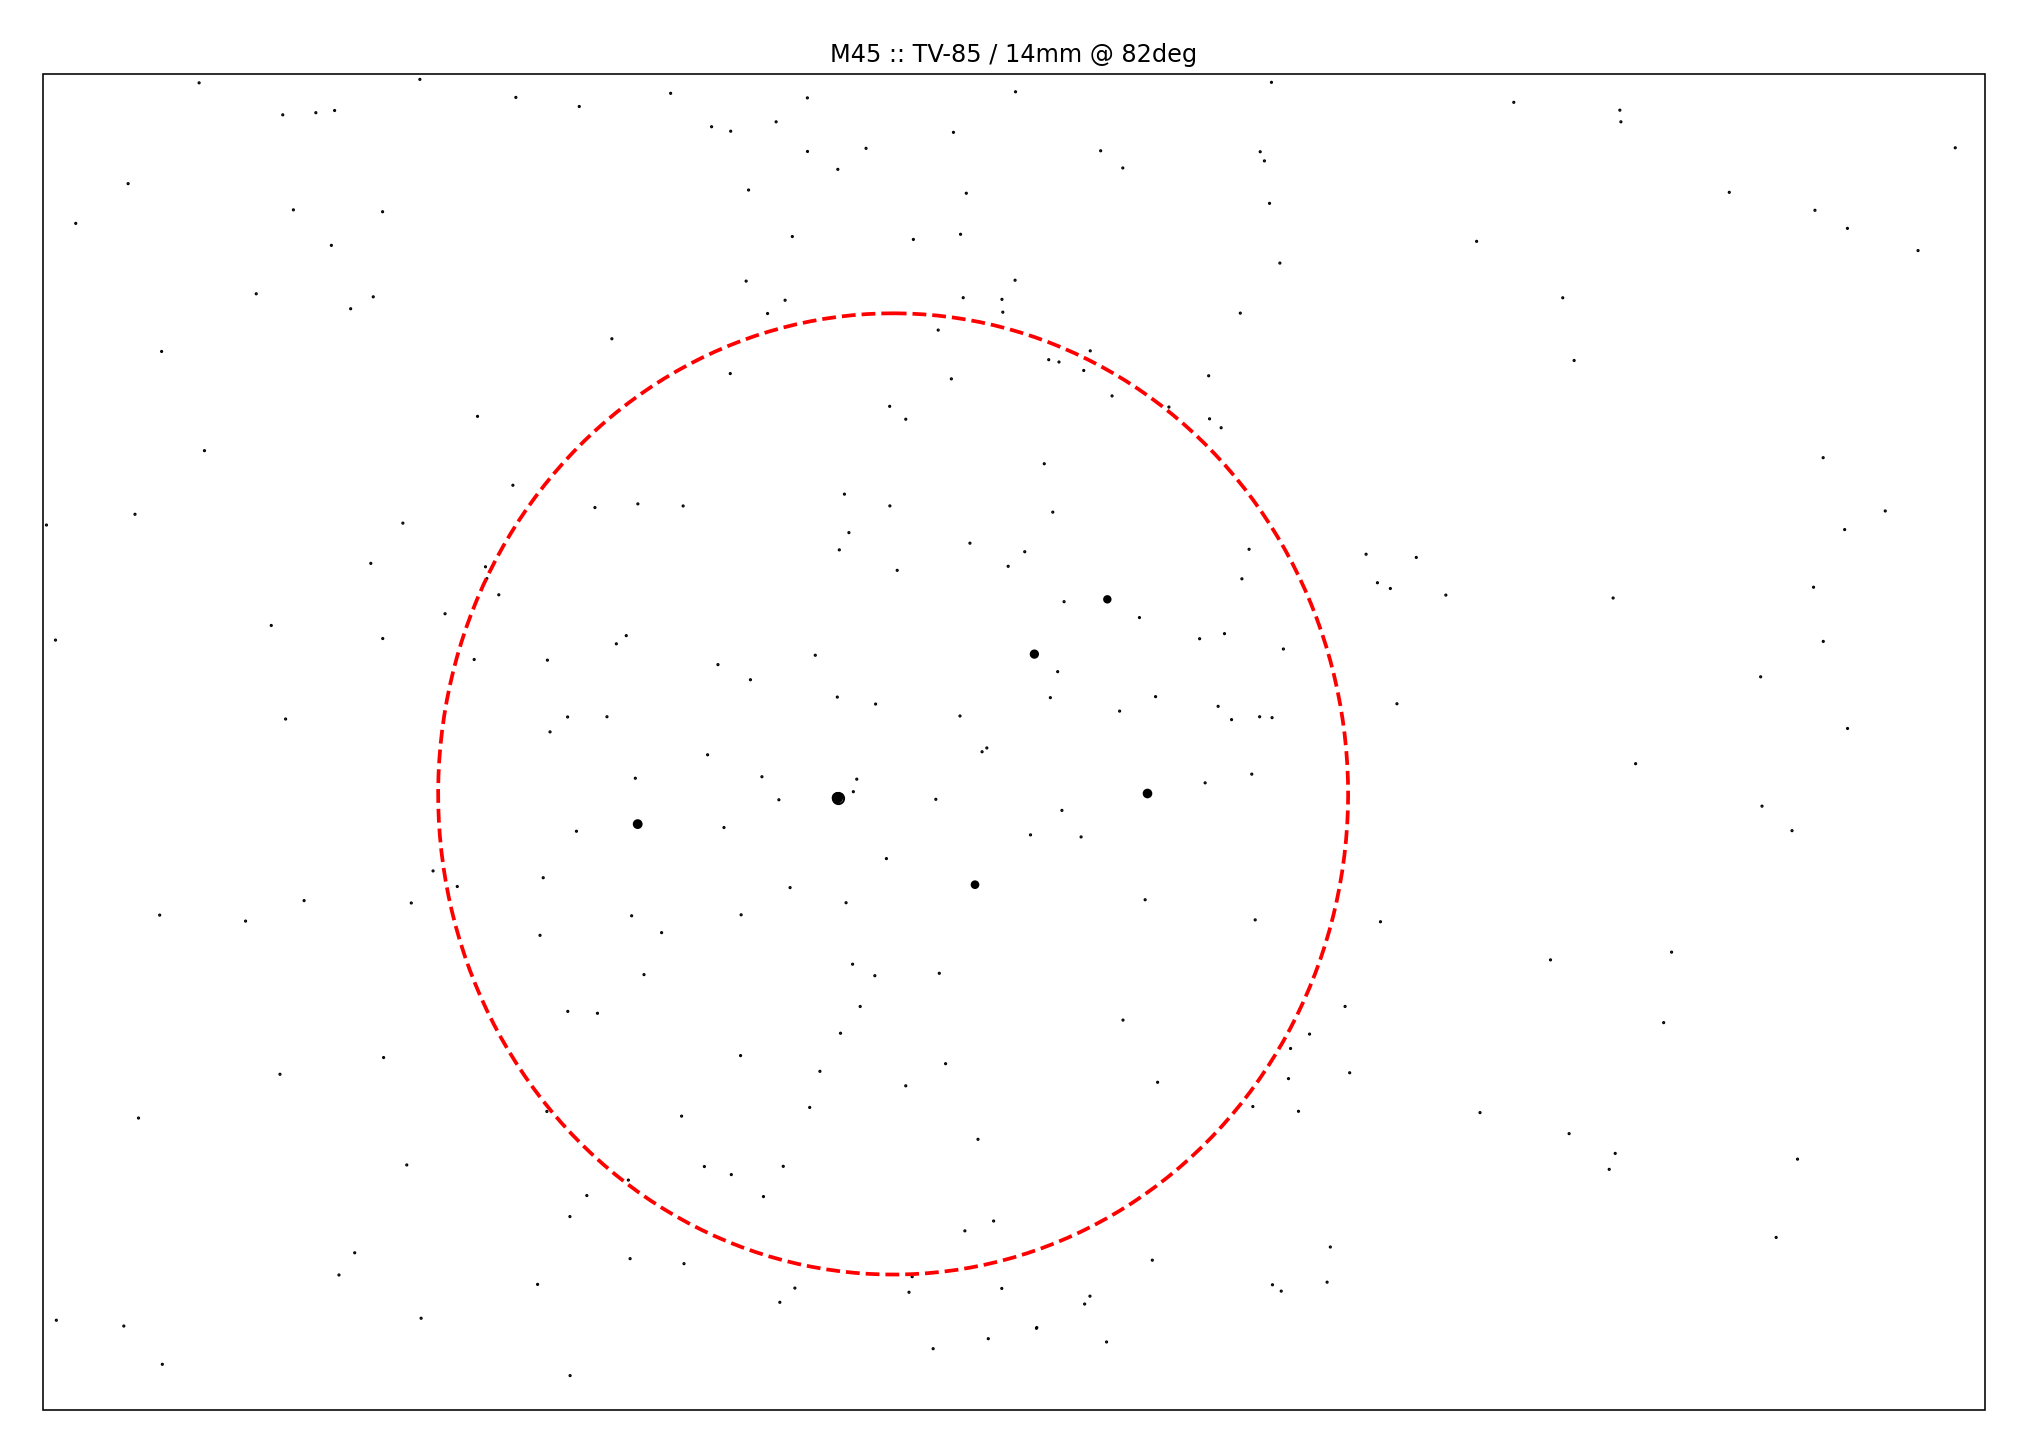
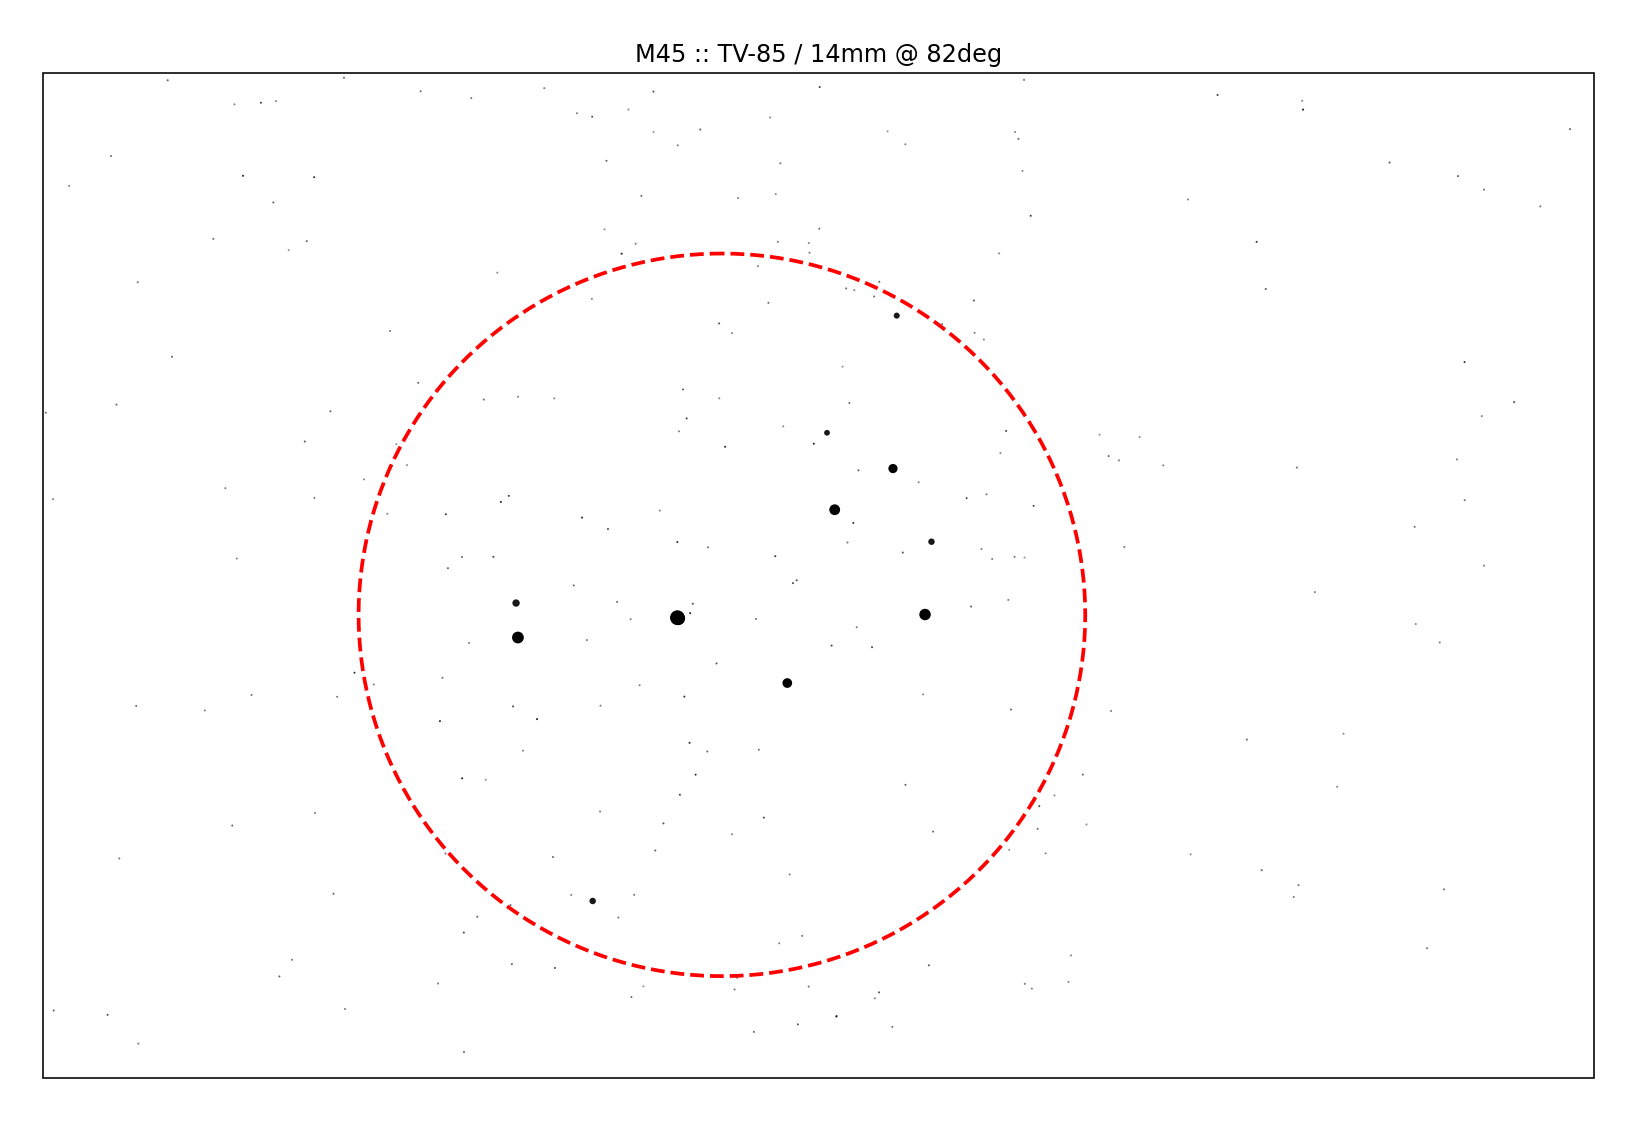
v0.5.2 (#38)
* relative buffer

* hide milky way in minimal style

* adjust star sizing

* styles and star sizes

* sizing

* format

* styles

* update tests

* examples

* version

diff --git a/src/starplot/map.py b/src/starplot/map.py
@@ -68,6 +68,7 @@ class MapPlot(StarPlot):
         hide_colliding_labels: If True, then labels will not be plotted if they collide with another existing label
         adjust_text: If True, then the labels will be adjusted to avoid overlapping
         star_catalog: The catalog of stars to use: "hipparcos" or "tycho-1" -- Hipparcos is the default and has about 10x less stars than Tycho-1 but will also plot much faster
+        rasterize_stars: If True, then the stars will be rasterized when plotted, which can speed up exporting to SVG and reduce the file size but with a loss of image quality
 
     Returns:
         MapPlot: A new instance of a MapPlot
@@ -90,6 +91,7 @@ class MapPlot(StarPlot):
         hide_colliding_labels: bool = True,
         adjust_text: bool = False,
         star_catalog: stars.StarCatalog = stars.StarCatalog.HIPPARCOS,
+        rasterize_stars: bool = False,
         *args,
         **kwargs,
     ) -> "MapPlot":
@@ -111,6 +113,7 @@ class MapPlot(StarPlot):
         self.dec_min = dec_min
         self.dec_max = dec_max
         self.star_catalog = star_catalog
+        self.rasterize_stars = rasterize_stars
 
         self._init_plot()
 
@@ -204,23 +207,36 @@ class MapPlot(StarPlot):
         )
         eph = load(self.ephemeris)
         earth = eph["earth"]
+
+        ra_buffer = (self.ra_max - self.ra_min) / 4
+        dec_buffer = (self.dec_max - self.dec_min) / 4
+
         nearby_stars_df = stardata[
             (stardata["magnitude"] <= self.limiting_magnitude)
-            & (stardata["ra_hours"] < self.ra_max + 5)
-            & (stardata["ra_hours"] > self.ra_min - 5)
-            & (stardata["dec_degrees"] < self.dec_max + 10)
-            & (stardata["dec_degrees"] > self.dec_min - 10)
+            & (stardata["ra_hours"] < self.ra_max + ra_buffer)
+            & (stardata["ra_hours"] > self.ra_min - ra_buffer)
+            & (stardata["dec_degrees"] < self.dec_max + dec_buffer)
+            & (stardata["dec_degrees"] > self.dec_min - dec_buffer)
         ]
         nearby_stars = Star.from_dataframe(nearby_stars_df)
         astrometric = earth.at(self.timescale).observe(nearby_stars)
         stars_ra, stars_dec, _ = astrometric.radec()
 
         sizes = []
+        alphas = []
         for m in nearby_stars_df["magnitude"]:
-            if m < 4.6:
-                sizes.append((8 - m) ** 2.36 * self._size_multiplier)
+            if m < 1.6:
+                sizes.append((9 - m) ** 2.85 * self._size_multiplier)
+                alphas.append(1)
+            elif m < 4.6:
+                sizes.append((8 - m) ** 2.92 * self._size_multiplier)
+                alphas.append(1)
+            elif m < 5.8:
+                sizes.append((9 - m) ** 2.46 * self._size_multiplier)
+                alphas.append(0.9)
             else:
-                sizes.append(0.75 * self._size_multiplier)
+                sizes.append(2.23 * self._size_multiplier)
+                alphas.append((16 - m) * 0.09)
 
         # Plot Stars
         if self.style.star.marker.visible:
@@ -229,6 +245,11 @@ class MapPlot(StarPlot):
                 sizes,
                 zorder=self.style.star.marker.zorder,
                 color=self.style.star.marker.color.as_hex(),
+                edgecolors=self.style.star.marker.edge_color.as_hex()
+                if self.style.star.marker.edge_color
+                else "none",
+                rasterized=self.rasterize_stars,
+                alpha=alphas,
                 **self._plot_kwargs(),
             )
             self._add_legend_handle_marker("Star", self.style.star.marker)

diff --git a/scripts/scratchpad.py b/scripts/scratchpad.py
@@ -20,8 +20,8 @@ def create_map_orion():
     style = PlotStyle().extend(
         # extensions.GRAYSCALE,
         # extensions.BLUE_LIGHT,
-        # extensions.BLUE_MEDIUM,
-        extensions.BLUE_DARK,
+        extensions.BLUE_MEDIUM,
+        # extensions.BLUE_DARK,
         extensions.MAP,
         {
             "star": {
@@ -47,7 +47,7 @@ def create_map_orion():
         dec_max=23.6,
         limiting_magnitude=7.2,
         style=style,
-        resolution=3000,
+        resolution=2600,
     )
     # marker for M42
     p.plot_object(
@@ -239,8 +239,8 @@ def create_galaxy_test():
     style = PlotStyle().extend(
         # sp.styles.extensions.HIDE_LABELS,
         # extensions.GRAYSCALE,
-        extensions.BLUE_LIGHT,
-        # extensions.BLUE_MEDIUM,
+        # extensions.BLUE_LIGHT,
+        extensions.BLUE_MEDIUM,
         # extensions.BLUE_DARK,
         extensions.MAP,
         {
@@ -314,11 +314,11 @@ def create_scope_view_m11():
 
     p = sp.MapPlot(
         projection=Projection.MERCATOR,
-        ra_min=18.7,
-        ra_max=19,
+        ra_min=18.6,
+        ra_max=19.16,
         dec_min=-8,
-        dec_max=-4,
-        limiting_magnitude=14,
+        dec_max=-3,
+        limiting_magnitude=11,
         style=style,
         resolution=2000,
         star_catalog="tycho-1",
@@ -332,6 +332,27 @@ def create_scope_view_m11():
     )
     p.ax.set_title("TV-85 / 8mm @ 100deg / M11")
     p.export("temp/map-m11.svg", format="svg", padding=0.3)
+
+
+def create_startest():
+    style = PlotStyle().extend(
+        # extensions.MINIMAL,
+        extensions.BLUE_LIGHT,
+        extensions.MAP,
+    )
+
+    p = sp.MapPlot(
+        projection=Projection.STEREO_NORTH,
+        ra_min=2,
+        ra_max=6,
+        dec_min=60,
+        dec_max=85,
+        limiting_magnitude=8,
+        style=style,
+        resolution=3000,
+        star_catalog="tycho-1",
+    )
+    p.export("temp/stars.png", format="png", padding=0.3)
 
 
 def dump_extensions():
@@ -354,16 +375,16 @@ def dump_extensions():
 
 # ------------------------------------------
 
-
-# create_scope_view_m45()
+create_startest()
+create_scope_view_m45()
 create_scope_view_m11()
-# create_galaxy_test()
+create_galaxy_test()
 
 # create_zenith()
 # create_map_mercator()
 # create_map_stereo_north()
 # create_map_stereo_south()
-# create_map_orion()
+create_map_orion()
 # create_map_sgr()
 
 # create_map_with_planets()

diff --git a/tests/test_map.py b/tests/test_map.py
@@ -47,7 +47,7 @@ def map_plot_stereo_north():
 def test_map_plot_mercator_base(map_plot_mercator):
     filename = DATA_PATH / "actual-mercator-base.png"
     map_plot_mercator.export(filename)
-    assert dhash(filename) == "183b1a3e3636644c"
+    assert dhash(filename) == "193b1a3e2e26644c"
     assert colorhash(filename) == "07406040000"
 
 
@@ -77,14 +77,14 @@ def test_map_plot_mercator_with_extra_object(map_plot_mercator):
         )
     )
     map_plot_mercator.export(filename)
-    assert dhash(filename) == "183b1a3e362c644c"
+    assert dhash(filename) == "193b1a3e2e2e644c"
     assert colorhash(filename) == "07403040000"
 
 
 def test_map_plot_stereo_base(map_plot_stereo_north):
     filename = DATA_PATH / "actual-stereo-north-base.png"
     map_plot_stereo_north.export(filename)
-    assert dhash(filename) == "56f6647468787267"
+    assert dhash(filename) == "57f66464686c7467"
     assert colorhash(filename) == "07000000000"
 
 
@@ -108,7 +108,7 @@ def test_map_plot_stereo_with_extra_object(map_plot_stereo_north):
         )
     )
     map_plot_stereo_north.export(filename)
-    assert dhash(filename) == "56f6647468787267"
+    assert dhash(filename) == "57f66464686c7467"
     assert colorhash(filename) == "07e00000000"
 
 
@@ -139,7 +139,7 @@ def test_map_plot_with_planets():
     )
     p.export(filename)
 
-    assert dhash(filename) == "cccc716333b68c0e"
+    assert dhash(filename) == "ccc871633bb68e0c"
     assert colorhash(filename) == "07603000000"
 
 
@@ -176,5 +176,5 @@ def test_map_plot_scope_bino_fov():
     p.ax.set_title("M45 :: TV-85 / 14mm @ 82deg, 10x binos @ 65deg")
     p.export(filename, padding=0.3)
 
-    assert dhash(filename) == "86a4c29a9ad2a4ca"
+    assert dhash(filename) == "0aa4d29a9ad2a480"
     assert colorhash(filename) == "07200030000"

diff --git a/src/starplot/styles/base.py b/src/starplot/styles/base.py
@@ -141,7 +141,7 @@ class MarkerStyle(BaseStyle):
     color: ColorStr = ColorStr("#000")
     """Fill color of marker. Can be a hex, rgb, hsl, or word string."""
 
-    edge_color: ColorStr = ColorStr("#000")
+    edge_color: Optional[ColorStr] = ColorStr("#000")
     """Edge color of marker. Can be a hex, rgb, hsl, or word string."""
 
     symbol: MarkerSymbolEnum = MarkerSymbolEnum.POINT
@@ -165,7 +165,7 @@ class MarkerStyle(BaseStyle):
     def matplot_kwargs(self, size_multiplier: float = 1.0) -> dict:
         return dict(
             color=self.color.as_hex(),
-            markeredgecolor=self.edge_color.as_hex(),
+            markeredgecolor=self.edge_color.as_hex() if self.edge_color else "none",
             marker=self.symbol,
             markersize=self.size * size_multiplier * FONT_SCALE,
             fillstyle=self.fill,
@@ -421,7 +421,7 @@ class PlotStyle(BaseStyle):
 
     # Stars
     star: ObjectStyle = ObjectStyle(
-        marker=MarkerStyle(fill=FillStyleEnum.FULL, zorder=1, size=10),
+        marker=MarkerStyle(fill=FillStyleEnum.FULL, zorder=1, size=10, edge_color=None),
         label=LabelStyle(font_size=9, font_weight=FontWeightEnum.BOLD, zorder=1),
     )
     """Styling for stars *(see [`ObjectStyle`][starplot.styles.ObjectStyle])*"""

diff --git a/src/starplot/__init__.py b/src/starplot/__init__.py
@@ -1,6 +1,6 @@
 """Star charts and maps"""
 
-__version__ = "0.5.1"
+__version__ = "0.5.2"
 
 from .base import StarPlot  # noqa: F401
 from .zenith import ZenithPlot  # noqa: F401
